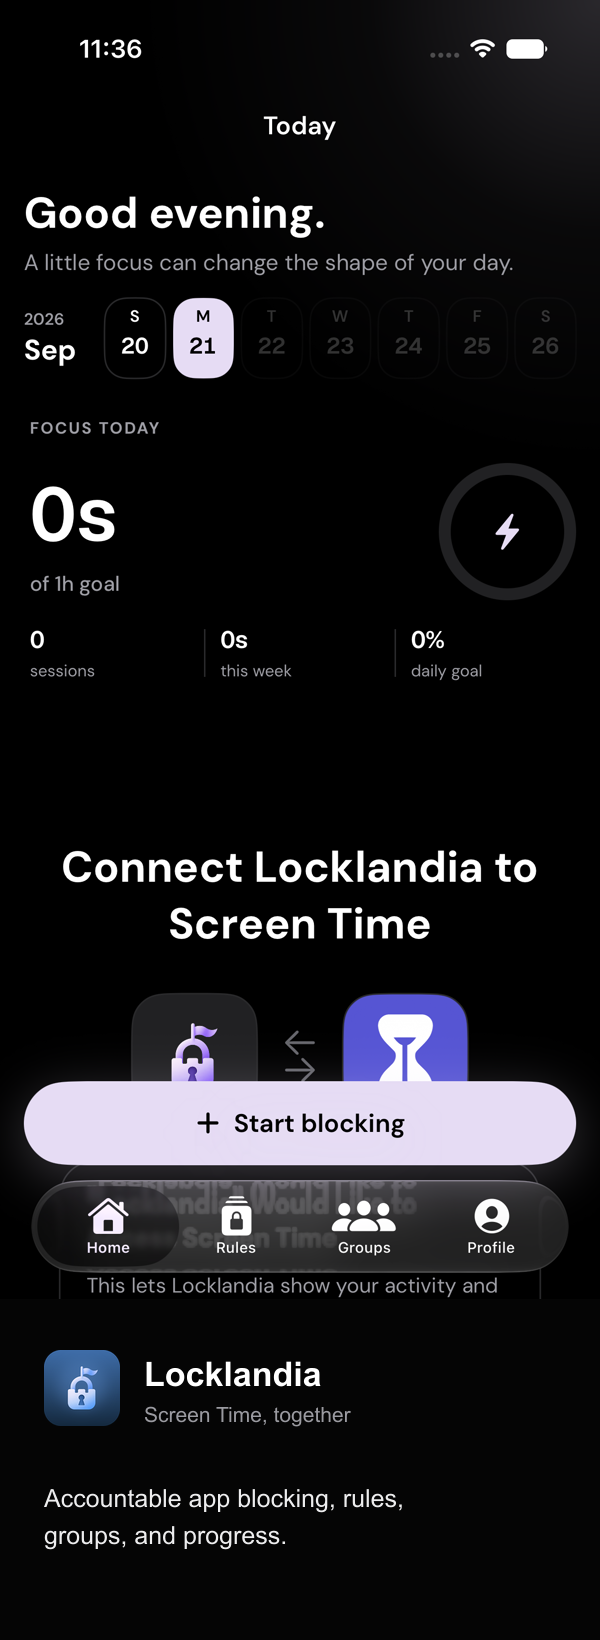
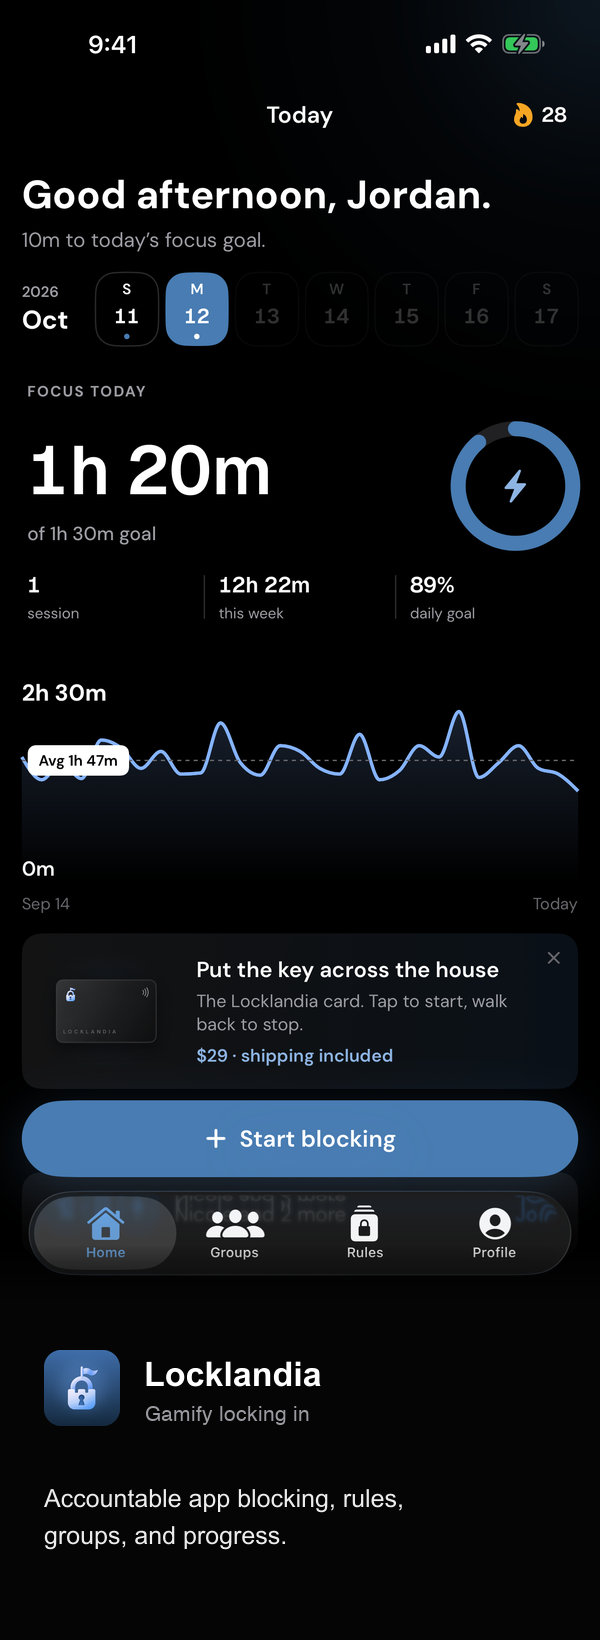
Locklandia preview: current dark UI with the focus chart, new subtitle

diff --git a/README.md b/README.md
@@ -25,7 +25,7 @@ I design and ship software end to end, from macOS apps and agent integrations to
 <p align="center">
   <a href="https://apps.apple.com/us/app/rinkside-hockey-stats/id6762891002"><img src="assets/rinkside-preview.png" width="31%" alt="Rinkside App Store preview showing live hockey scores and game statistics"></a>
   <a href="https://apps.apple.com/us/app/fern-self-employed-taxes/id6785351947"><img src="assets/fern-preview.png" width="31%" alt="Fern App Store preview showing tax-aware budgeting for self-employed people"></a>
-  <img src="assets/locklandia-preview.png" width="31%" alt="Locklandia device preview showing its current focus dashboard and Screen Time controls">
+  <img src="assets/locklandia-preview.png" width="31%" alt="Locklandia preview showing today's focus goal ring and a 30-day focus chart">
 </p>
 
 <p align="center">
